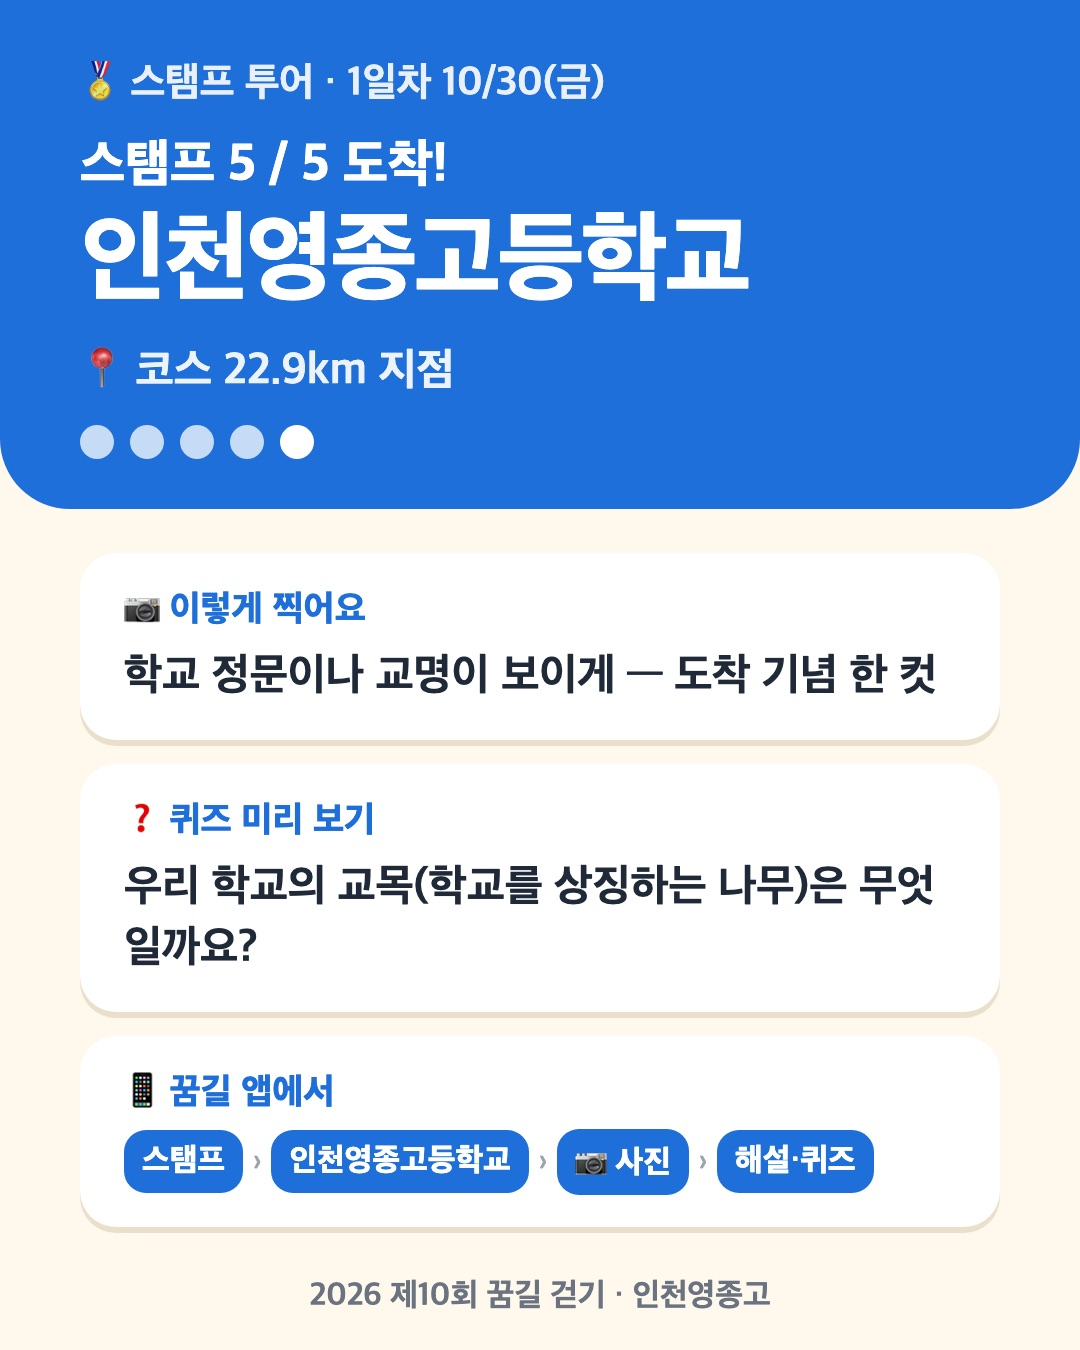
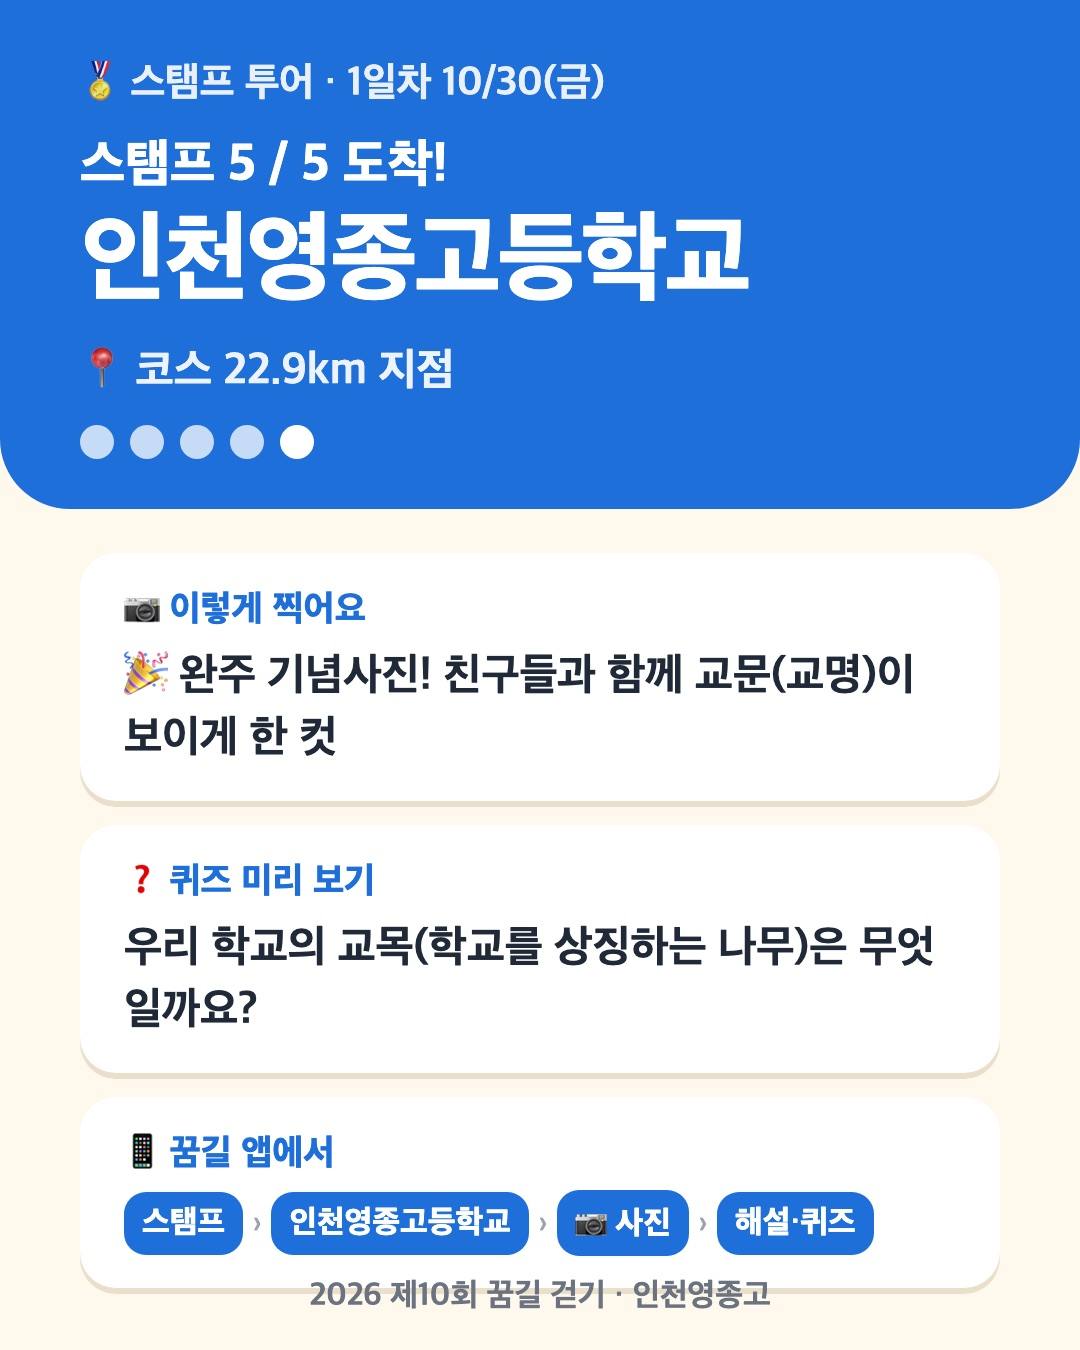
학교 도착 스탬프·진행 카드: 완주 기념사진 안내 v109

Changed region(s): [[0.0917, 0.5911, 0.9167, 0.9644], [0.0917, 0.4667, 0.9167, 0.56]]

diff --git a/walk/lead.html b/walk/lead.html
@@ -121,8 +121,8 @@ var P = {
   msg:'🏅 [스탬프 4/5]\n씨사이드파크 족욕장 도착!\n앱 → 스탬프 → 족욕장 → 📷 족욕장과 바다(인천대교)가 함께 → 해설·퀴즈.\n휴식 후 학급별 캠페인 사진 찍어 주세요. 15:10 학교로 출발합니다.'},
  {t:'족욕장 휴식', p:'📷 사진전·릴스전 독려 ②', todo:[[K,'족욕장 휴식 때 독려 문구 보내기']],
   msg:'[사진전·릴스전]\n20km 걸어온 우리, 지금이 제일 멋진 순간이에요 🌊\n바다·인천대교·족욕하는 발까지 한 장 남겨 보세요.\n친구가 나오면 꼭 «찍어도 돼?» 먼저 물어보기!\n출품: 꿈길 앱 홈 → 사진전·릴스전 → 📤 출품하기 (사진 한 장만 내도 동판 미션 ③ 인정!)'},
- {t:'15:40', p:'학교 도착', stamp:'school', sn:'5/5', todo:[[S,'빵·음료 배분'],['담임','도착 인원 → 현황판 보고'],['담임','다친 학생 보건실 · 가정 연락'],[K,'「전원 도착」 공지']],
-  msg:'🏅 [스탬프 5/5]\n학교 도착! 25km 완주를 축하합니다 🎉\n앱 → 스탬프 → 인천영종고등학교 → 📷 정문이나 교명이 보이게 → 마지막 퀴즈.\n담임 선생님들 도착 인원은 현황판으로 보고 부탁드립니다. 빵·음료 받아 가세요.'},
+ {t:'15:40', p:'학교 도착', stamp:'school', sn:'5/5', todo:[['담임','🎉 반별 완주 기념사진 찍기'],[S,'빵·음료 배분'],['담임','도착 인원 → 현황판 보고'],['담임','다친 학생 보건실 · 가정 연락'],[K,'「전원 도착」 공지']],
+  msg:'🏅 [스탬프 5/5]\n학교 도착! 25km 완주를 축하합니다 🎉\n📸 반별로 완주 기념사진 찍어요! 친구들과 함께 교문(교명)이 보이게 한 컷.\n이 사진으로 앱 → 스탬프 → 인천영종고등학교 → 📷 → 마지막 퀴즈까지!\n담임 선생님들 도착 인원은 현황판으로 보고 부탁드립니다. 빵·음료 받아 가세요.'},
  {t:'귀가 전', p:'📷 사진전·릴스전 독려 ③', todo:[[K,'하교 전 출품 독려 문구 보내기'],['담임','종례 때 한 번 더 안내']],
   msg:'[사진전·릴스전]\n오늘 찍은 사진·영상, 폰 속에만 두기 아깝죠? 📤\n집에 가서 한 장만 골라 출품해 주세요.\n출품: 꿈길 앱 홈 → 사진전·릴스전 → 📤 출품하기 (사진 한 장만 내도 동판 미션 ③ 인정!)'}
 ],

diff --git a/walk/sw.js b/walk/sw.js
@@ -7,7 +7,7 @@
      · 내 파일(코스·사진·화면)  → 저장해 둔 것을 «먼저» 주고, 뒤에서 조용히 갱신
      · 카카오 지도 타일         → 저장하지 않는다(약관·용량). 신호 없으면 지도만 안 보인다
    ══════════════════════════════════════════════════════════════ */
-const V = 'kkumgil-v108';
+const V = 'kkumgil-v109';
 const CORE = ['./', './index.html', './courses.json', './course-day1.json', './course-day2.json',
               './manifest.json', './icon-192.png', './icon-512.png', './stamps.json',
               './hero.jpg', './t-poem.jpg', './t-catch.jpg', './t-shirt-dpw2.jpg',
